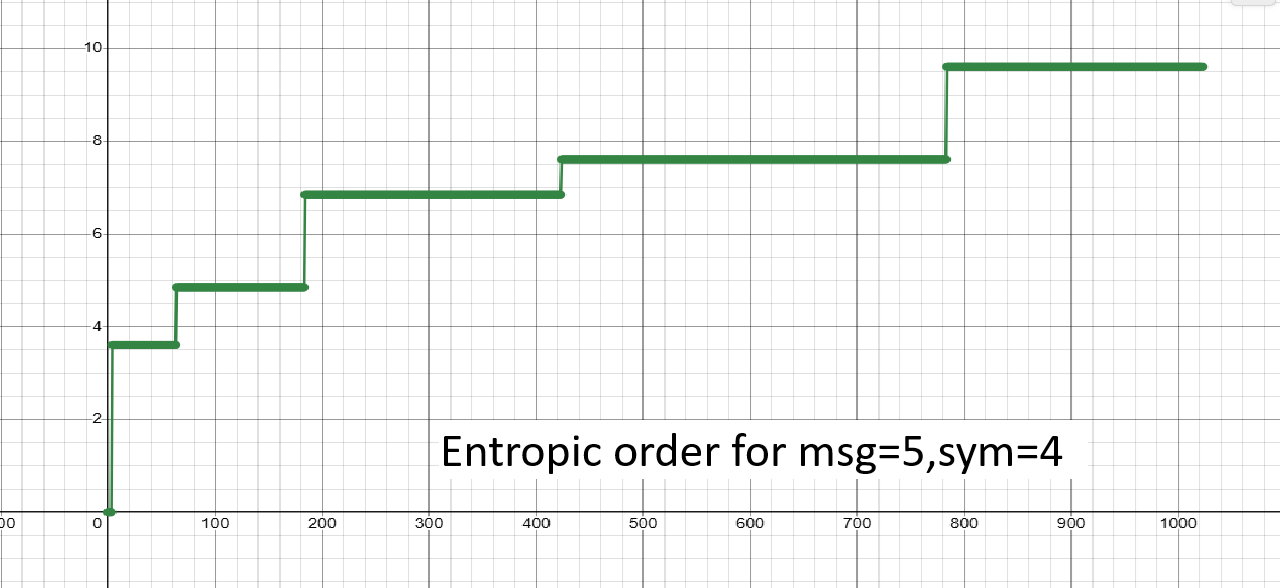
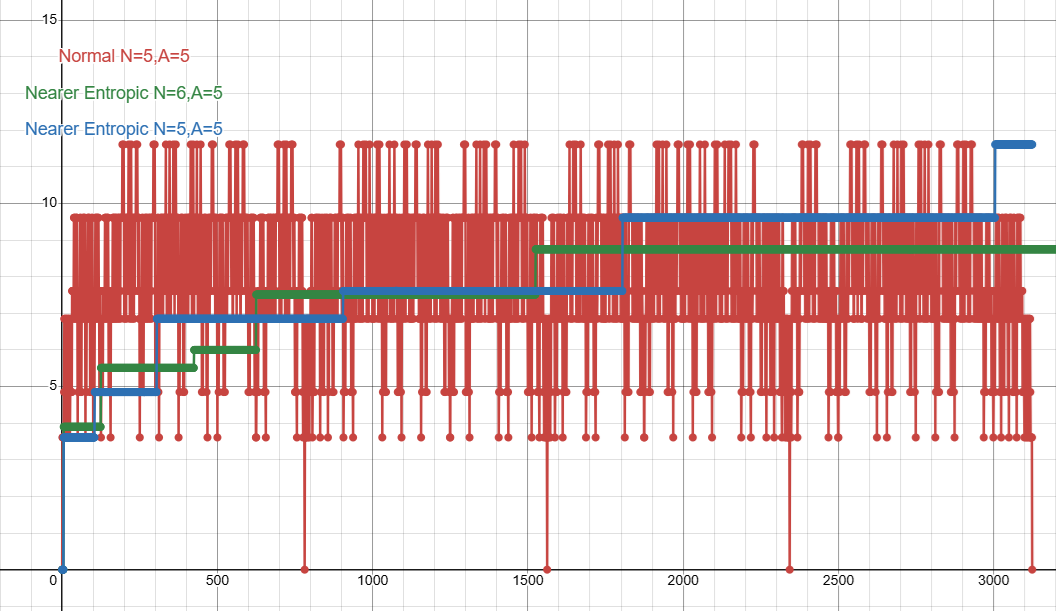
update'

diff --git a/_posts/2025-11-01-entropic-transforms.md b/_posts/2025-11-01-entropic-transforms.md
@@ -26,14 +26,28 @@ Unfortunately, though, Set-Shaping-Theory being a theory, this means that it lea
 For small messages, we can just use a table to store all possible sorted messages in a table, and look them up that way.
 However, the problem is that for large messages we can't just sort them all first and look them up - there's way too many of them.  But, what we can do is use a neat idea from combinatorics where we rank all possible sequences in order from those with the least amount of entropy to those with the greatest, and find our transformed sequence that way, without having to calculate all the intermediate sequences.
 
-But, while that's easy enough to say, I did find out that actually implementing this was rather tricky, (at least for me).  So much so, that I ended up making three separate attempts at it.
-1. With the the first approach, I found a way that is technically correct, but unfortunately I ran into the obstacle that for anything beyond the smallest alphabets of symbols, it quickly became unusably slow due to the amount of integer partitions it had to process.
+But, while that's easy enough to say, actually implementing this is quite tricky, and while the following describes a method for ordering that is near entropic, note that it is only an approximation, and diverges from the real entropic order.
 
-2. With the second approach, I ended up implementing it a different way, that while good, does not have exact entropic order within a alphabet count section, but is quite a bit faster.  This second method is what I'm calling <b>"near entropic"</b> order.  
+The ordering of this approximation algorithm can be explicitly stated based on the repetitions of distinct characters, sorted by reverse integer-partition order.
 
-3. For the final approach, I found a way to modify the previous method so that the ranking is fully entropic, and can handle larger messages and alphabets than the first method. 
+For example, here are some sequences and the repeat patterns they have:
+CABAC - two 'C', two 'A's, one 'B'           =  repeat pattern [2,2,1]
+EBDAA - one 'E', one 'B', one 'D', two 'A's  =  repeat pattern [2,1,1,1]
+AEDBB - one 'A', one 'E', one 'D', two 'B's  = repeat pattern  [2,1,1,1]
 
-For more specifics on the order, see the spreadsheets in the <a href="https://github.com/gotankersley/entropic-transform/tree/main/data" target="_blank">data folder</a>, especially the Entropy column, where you can see, for example, that CCDD (entropy 4.0) is ranked before BABB (entropy 3.25), but that each sequence that has only two distinct symbols is going to have less entropy than all the sequences with three distinct symbols, etc..
+These repeat patterns must sum up to the total sequence length, (which in this case is 5).  Thus, the total possible repeat patterns that are available must be the integer-partitions of 5, which are as follows:
+5
+4+1
+3+2
+3+1+1
+2+2+1
+2+1+1+1
+1+1+1+1+1
+
+This is the order that the algorithm will use for all sequences.  This means that all sequences with a repeat pattern of [5], (e.g. BBBBB) will come before all sequences with a repeat pattern of [4,1], (e.g. ABBBB, BBBBA, CCACC, etc...)
+
+
+For more specifics on the order, see <a href="https://www.desmos.com/calculator/8iv9axg8zu" target="_blank">this Desmos graph</a> and the spreadsheets in the <a href="https://github.com/gotankersley/entropic-transform/tree/main/data" target="_blank">data folder</a>, especially the Entropy column, where you can see, for example, that CCDD (entropy 4.0) is ranked before BABB (entropy 3.25), but that each sequence that has only two distinct symbols is going to have less entropy than all the sequences with three distinct symbols, etc..
 
 Finally, there are lots of sequences that have identical entropy, so for Set Shaping Theory bijection purposes, once a sequence is ranked in (near) entropic order, it doesn't really matter what order the sequences come in, so I've just chosen an order that uniquely identifies them.
 <br>
